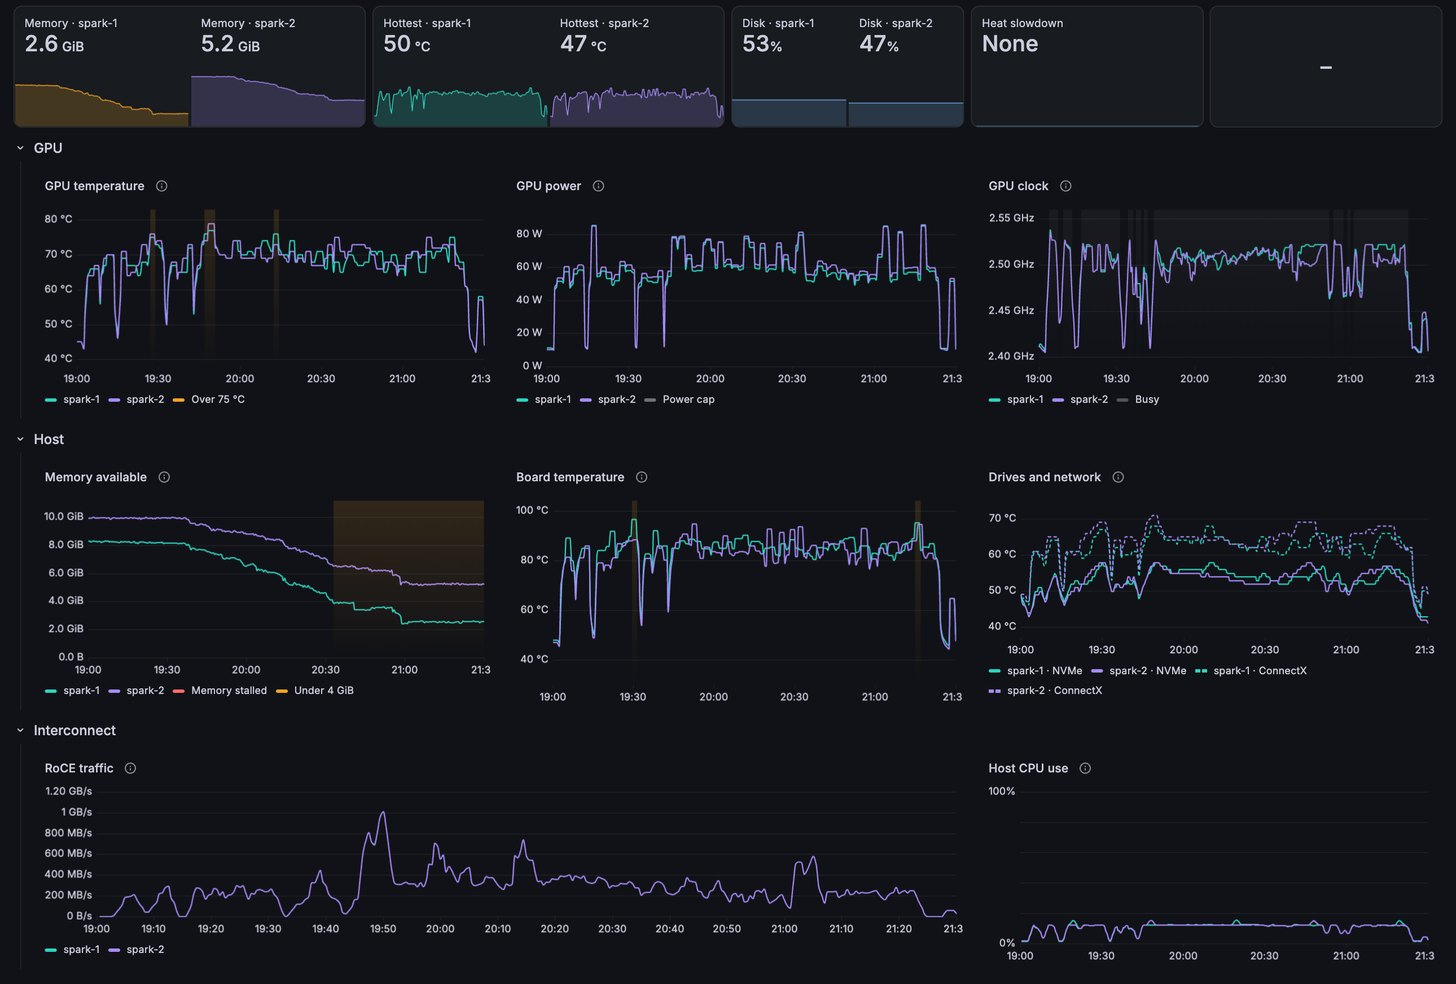
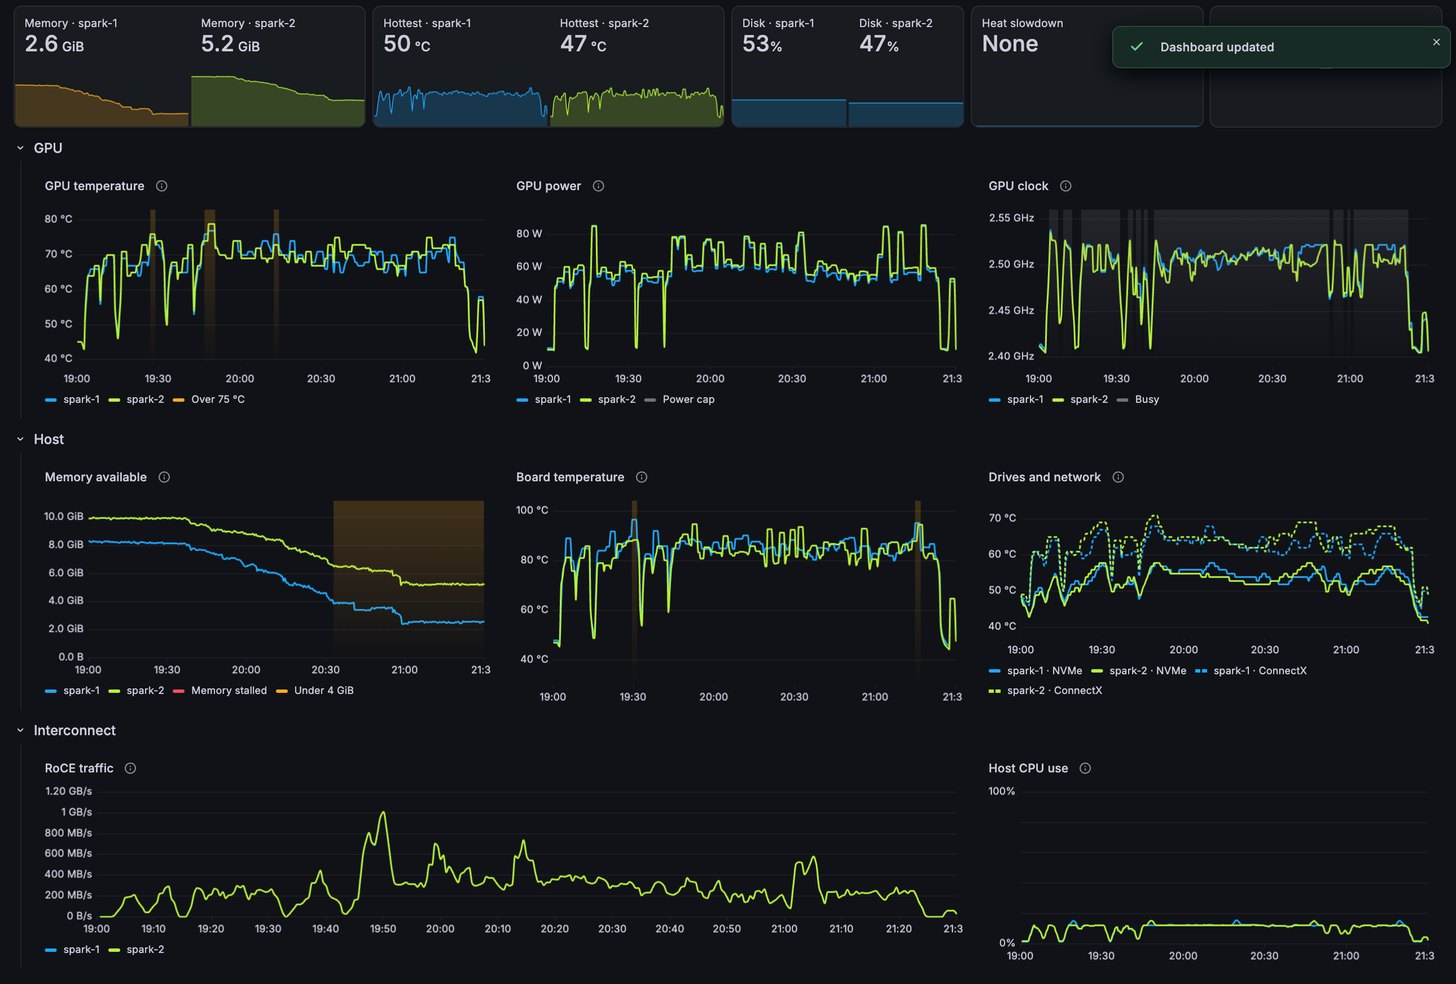
fix(grafana): take the purple out of the machines concept
Violet was spark-2's colour and the source of the purple, and low
saturation at low opacity made the rest of the page dull. Use azure and
lime for the machines, which separate far better for colour-blind
readers, bring back green for values within a limit, and give bars and
fills enough strength to hold up on the dark background.

diff --git a/scripts/grafana/concepts/build.py b/scripts/grafana/concepts/build.py
@@ -15,6 +15,7 @@ HERE = Path(__file__).resolve().parent
 LAB = Path("/tmp/spark-lab/dash")
 WINDOW = ("2026-10-31T23:00:00.000Z", "2026-11-01T01:30:00.000Z")
 
+AZURE, LIME = "#1EA7FF", "#B6F23C"
 INFO = "#6CA6E0"      # a plain quantity: information, with no good or bad in it
 RULE = {"ok": "#3ECF8E", "drawn": True, "speed": INFO, "load": INFO, "cache": INFO, "memory": INFO, "heat": INFO, "context": INFO, "fine": "#5F7690",
         "muted": "#52525B", "warn": "#F5A524", "bad": "#FF6B6B", "info": "#71717A", "band": 14, "quiet": "#1C1F24", "good": "#17402F", "warm": "#4A3A12", "hot": "#4F2020",
@@ -64,7 +65,9 @@ CONCEPTS = {
     # Quantities have no good or bad, so they take the information blue. A judged value has a limit, some from the alert rules and some still placeholders, and its line changes colour as it crosses one.
     "colour-judges": dict(RULE, title="Colour judges", calm=INFO, calm1="#9CC4F0", calm2="#5B86BC", spark1="#9CC4F0", spark2="#5B86BC"),
     "traffic-light": dict(RULE, title="Traffic light", calm="#3ECF8E", calm1="#3ECF8E", calm2="#A7F3D0", spark1="#9CC4F0", spark2="#5B86BC"),
-    "machines": dict(RULE, title="Machines and condition", refined=True, calm=INFO, calm1="#2DD4BF", calm2="#A78BFA", spark1="#2DD4BF", spark2="#A78BFA"),
+    "machines": dict(RULE, title="Machines and condition", refined=True, calm="#22E08A", calm1=AZURE, calm2=LIME, spark1=AZURE, spark2=LIME, ok="#22E08A",
+                     speed=AZURE, load=AZURE, cache=AZURE, memory=AZURE, heat=AZURE, context=AZURE, fine="#7FC4FF", muted="#1F6FB8", warn="#FFAB1F", bad="#FF4D5E", band=20, line=2, fill=20,
+                     heatmap={"mode": "opacity", "fill": AZURE, "scale": "exponential", "exponent": 0.35}),
 }
 
 INFERENCE = {4: "load", 3: "speed", 34: "speed", 26: "cache", 21: "memory", 35: "context"}
@@ -235,12 +238,16 @@ def refine(d, c, kind):
             p["fieldConfig"]["defaults"]["custom"]["thresholdsStyle"] = {"mode": "off"}
         panels[9]["fieldConfig"]["defaults"].pop("max", None)
         panels[15]["fieldConfig"]["overrides"].append({"matcher": {"id": "byRegexp", "options": "/ · max$/"}, "properties": [{"id": "custom.hideFrom", "value": {"tooltip": True, "viz": True, "legend": True}}]})
+        for o in panels[15]["fieldConfig"]["overrides"]:     # busy is a fact, like the power cap, so it stays grey
+            for x in o["properties"]:
+                if x["id"] == "color" and x["value"].get("fixedColor") == c["muted"]:
+                    x["value"] = fixed(c["info"])
         panels[3]["fieldConfig"]["defaults"].update(min=0, max=1.6)
         for id_ in (3, 4, 6):
             panels[id_]["options"].update(graphMode="area", colorMode="none")
             for step in panels[id_]["fieldConfig"]["defaults"]["thresholds"]["steps"]:
                 if step["color"] == "text":
-                    step["color"] = INFO
+                    step["color"] = c["speed"]
     for p in d["panels"]:
         if p["type"] == "stat" and p["id"] in (JUDGED_TILES[kind] | INFERENCE if kind == "inference" else JUDGED_TILES[kind]):
             p["options"]["colorMode"] = "none"
@@ -259,7 +266,7 @@ def drawn(p, c, health):
     if health and p["id"] in TWO_MACHINES:
         custom["fillOpacity"] = 0
     if not health and p["id"] in BARS:
-        custom.update(drawStyle="bars", barAlignment=0, barWidthFactor=0.8, lineWidth=0, fillOpacity=18 if c.get("refined") else 30, gradientMode="none")
+        custom.update(drawStyle="bars", barAlignment=0, barWidthFactor=0.8, lineWidth=0, fillOpacity=75 if c.get("refined") else 30, gradientMode="opacity" if c.get("refined") else "none")
         fc["defaults"]["color"] = fixed(c["speed"] if p["id"] == 23 else c["load"])
     if not health and p["id"] == 7:
         for o in fc["overrides"]:
